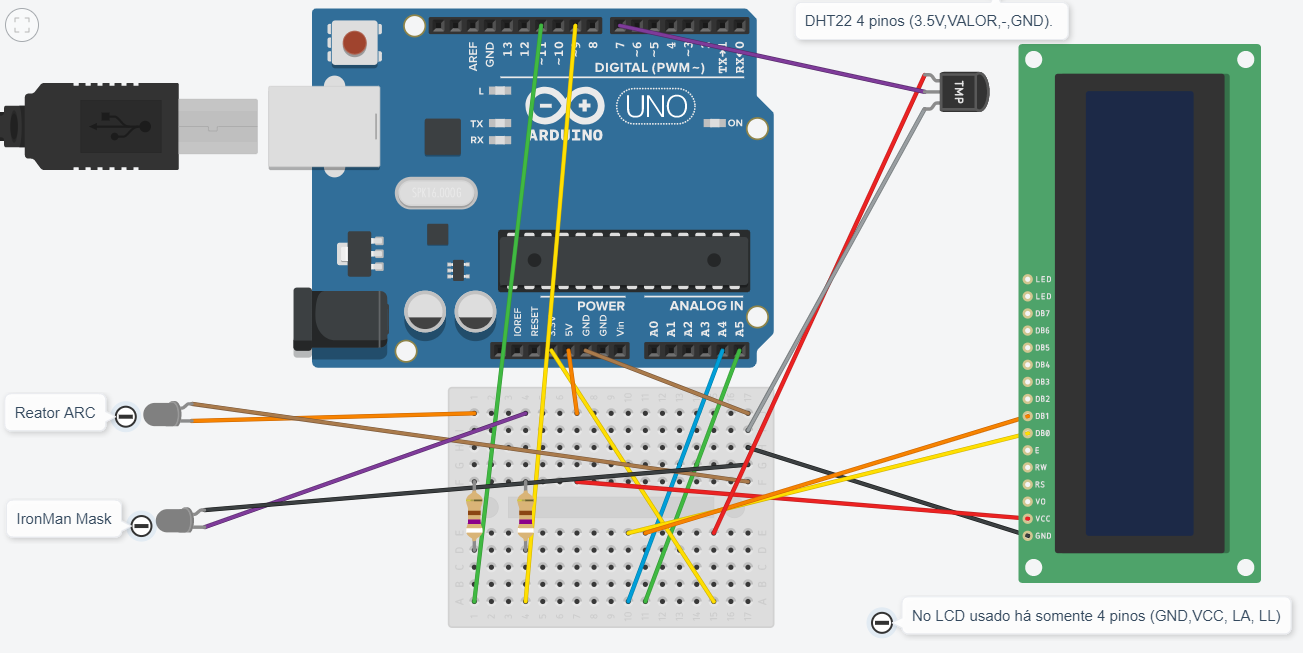
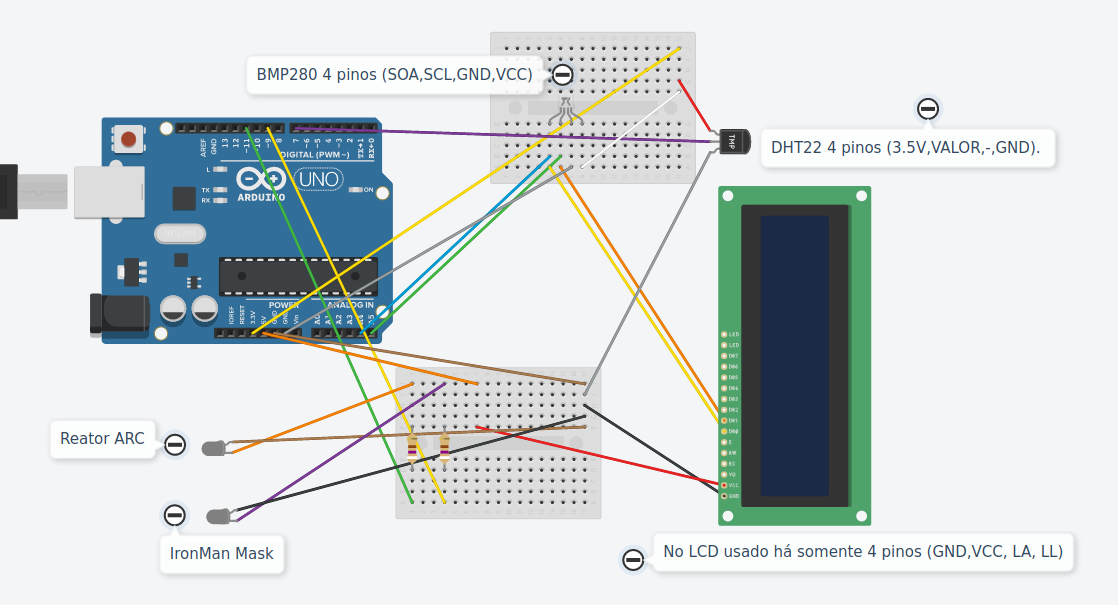
Update readme.md e added TinkerCad

diff --git a/README.md b/README.md
@@ -3,7 +3,8 @@
 Mini IronMan com Arduino:
 - Arduino UNO
 - Crystal Liquid
-- Sensor de temperatura e umidade
+- Sensor de temperatura e umidade DHT22
+- Sensor de pressão e temperatura BMP280
 - Capacete Homem de Ferro
 - Reator ARC Homem de Ferro
 - Caixa Vermelha de Plástico
@@ -16,7 +17,7 @@ A motivação veio do filme Iron Man 1. Um filme que aborda as invenções do fi
 <img src="https://raw.githubusercontent.com/luizmadeira1986/ironman_box/master/Images/ironman_box.PNG">
 
 # Vídeo Youtube
-https://youtu.be/yXBNsNiBRss
+Indisponível
 
 # Circuito
 <img src="https://raw.githubusercontent.com/luizmadeira1986/ironman_box/master/Images/CircuitBoardTinkerCad.PNG">
@@ -33,4 +34,7 @@ DHT22
 Para instalar basta ir em:
 Arduino Ide>Ferramentas>Gerenciar Bibliotecas...>Search:"DHT22">Instalar tudo 
 
-
+BMP280
+Arduino Ide>Sketch>Incluir Biblioteca>Adicionar biblioteca .ZIP>"Selecionar o arquivo que segue com este código">
+Dependencies/Adafruit_BMP280_Library-master.zip
+Dependecies/Adafruit_Sensor-master.zip
